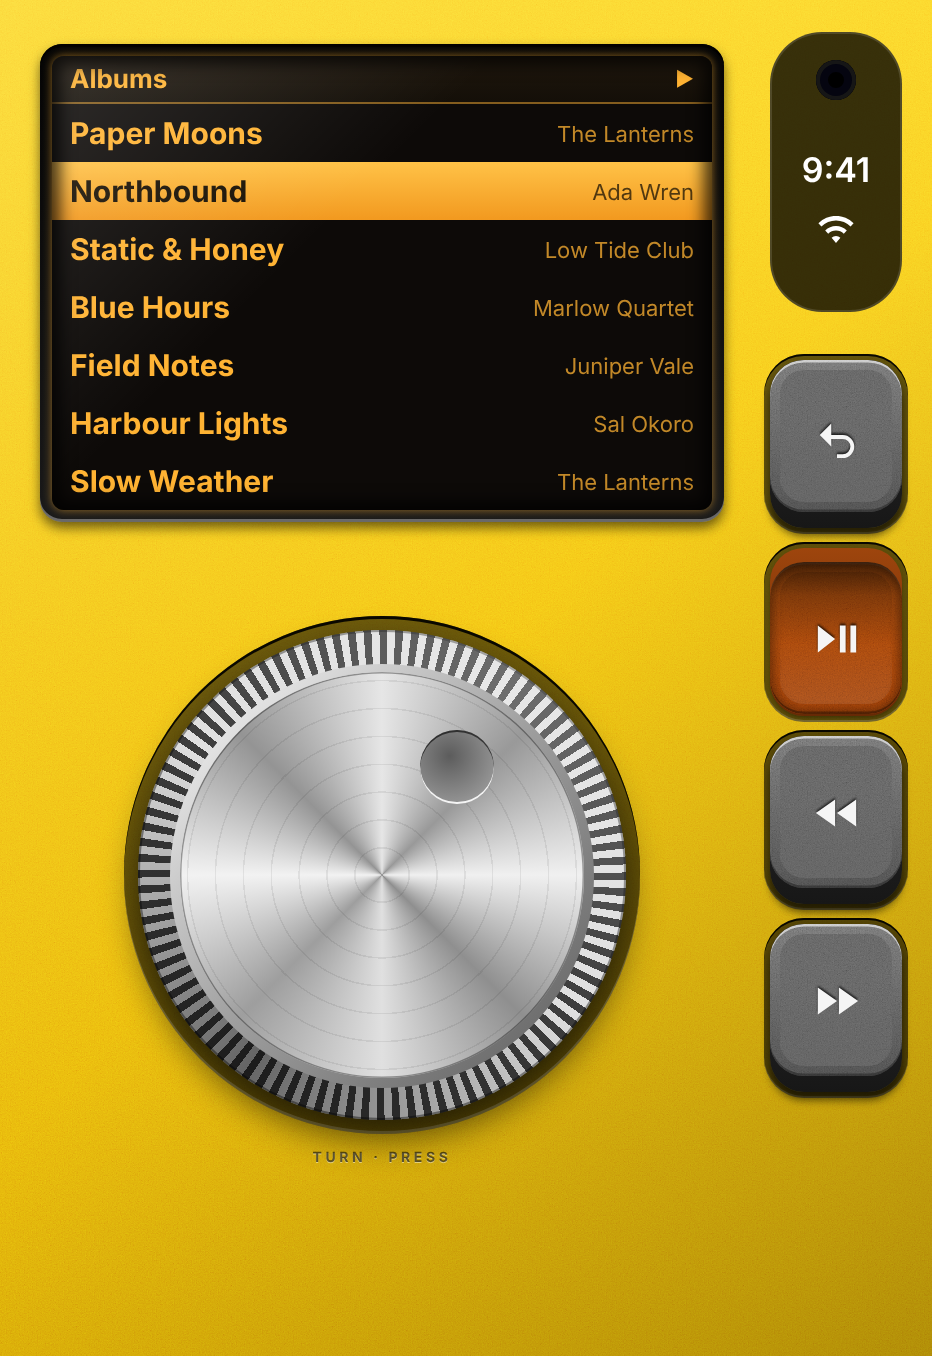
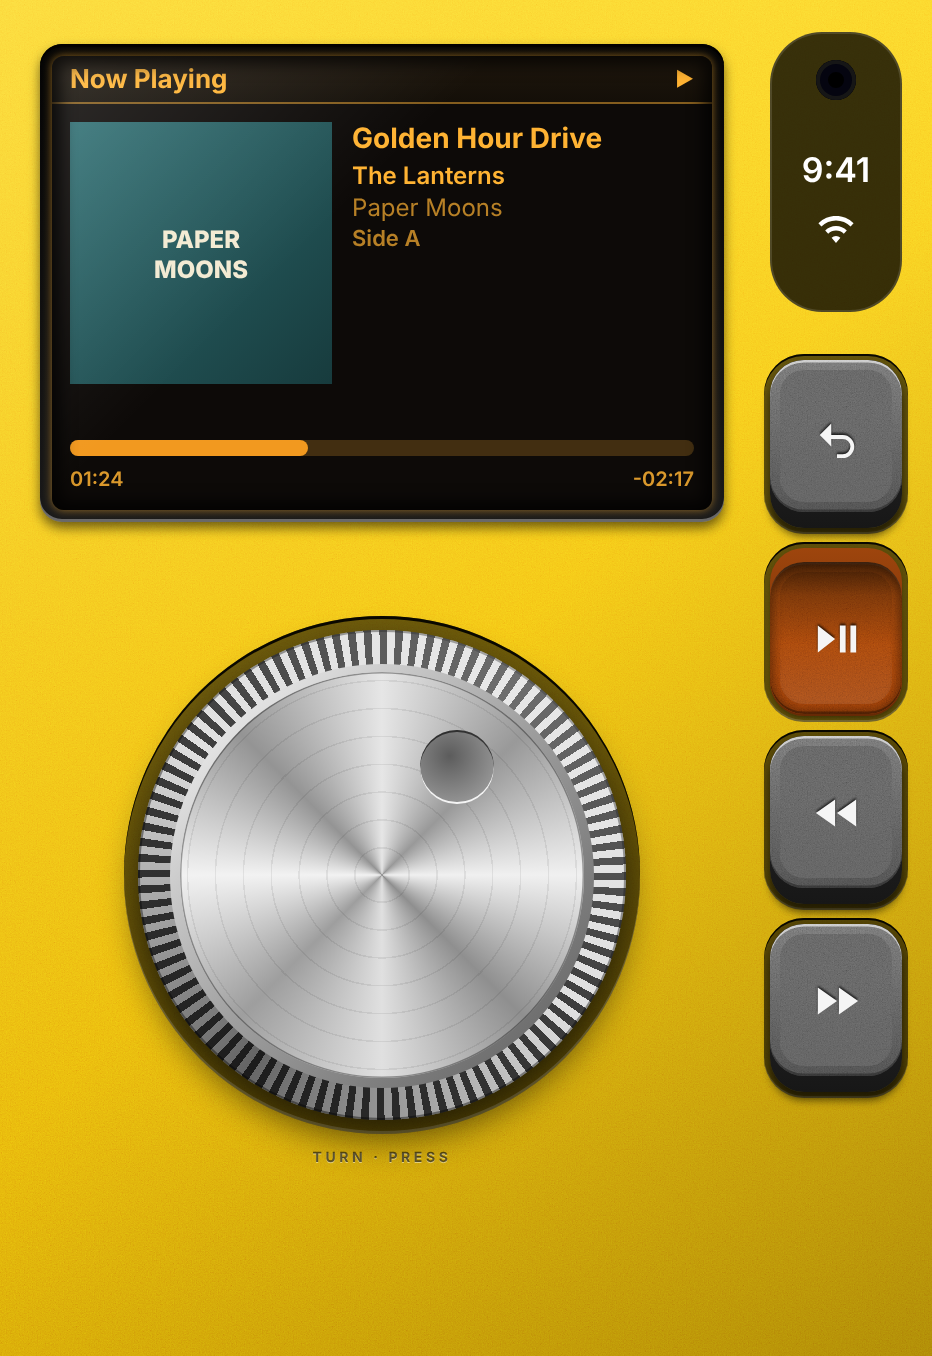
Name the three colours for both players and frame the website pictures
Themes are now Retro 80s, Black and Yellow for the tape player and the
MP3 player. The website shows all six inside a drawn folding phone.

Claude-Session: https://claude.ai/code/session_015CNmSEpanpmujmbPK8yXHv

Changed region(s): [[0.0311, 0.031, 0.7779, 0.3717], [0.5601, 0.2168, 0.7468, 0.2788]]

diff --git a/website/index.html b/website/index.html
@@ -38,7 +38,7 @@
       <span class="price"><b>$4.99</b> one time. For iPhone. Needs an Apple Music subscription.</span>
     </div>
     <figure class="shot">
-      <img src="images/tape-neon.png" alt="Cassety on a closed folding iPhone in its neon skin: a cassette behind a glowing window, with a volume fader and a column of keys." width="466" height="678">
+      <img src="images/duo-tape-80s.webp" alt="Cassety on a closed iPhone Duo in its retro 80s colours: a cassette behind a glowing window, with a volume fader and a column of keys." width="846" height="1134">
     </figure>
   </main>
 </div>
@@ -62,10 +62,10 @@
 <section class="alt">
   <div class="wrap pair">
     <figure class="shot wide">
-      <img src="images/open.png" alt="Cassety on an open folding iPhone: a shelf of tapes on the left and the chosen cassette on the right." width="951" height="669" loading="lazy">
+      <img src="images/duo-open.webp" alt="Cassety on an open iPhone Duo: a shelf of tapes on the left and the chosen cassette on the right." width="1571" height="1130" loading="lazy">
     </figure>
     <div>
-      <h2>Made for folding iPhones</h2>
+      <h2>Made for iPhone Duo</h2>
       <ul>
         <li>Closed, the whole screen is the player.</li>
         <li>Open, your tape shelf is on one side and the tape on the other.</li>
@@ -81,11 +81,18 @@
 <section>
   <div class="wrap">
     <h2>Pick your player. Pick your colour.</h2>
-    <p class="intro">A tape player or an MP3 player, in smoke, yellow or neon. They all play the same tapes.</p>
+    <p class="intro">A tape player or an MP3 player, each in retro 80s, black or yellow. They all play the same tapes.</p>
+    <h3 class="row-title">Tape player</h3>
     <div class="shots">
-      <figure class="shot"><img src="images/tape-smoke.png" alt="The tape player in smoked dark plastic." width="466" height="678" loading="lazy"><figcaption>Tape player, smoke</figcaption></figure>
-      <figure class="shot"><img src="images/tape-yellow.png" alt="The tape player in yellow." width="466" height="678" loading="lazy"><figcaption>Tape player, yellow</figcaption></figure>
-      <figure class="shot"><img src="images/mp3-smoke.png" alt="The MP3 player: an amber display above a metal dial." width="466" height="678" loading="lazy"><figcaption>MP3 player, smoke</figcaption></figure>
+      <figure class="shot"><img src="images/duo-tape-80s.webp" alt="The tape player in retro 80s purple and pink." width="846" height="1134" loading="lazy"><figcaption>Retro 80s</figcaption></figure>
+      <figure class="shot"><img src="images/duo-tape-black.webp" alt="The tape player in black smoked plastic." width="846" height="1134" loading="lazy"><figcaption>Black</figcaption></figure>
+      <figure class="shot"><img src="images/duo-tape-yellow.webp" alt="The tape player in yellow." width="846" height="1134" loading="lazy"><figcaption>Yellow</figcaption></figure>
+    </div>
+    <h3 class="row-title">MP3 player</h3>
+    <div class="shots">
+      <figure class="shot"><img src="images/duo-mp3-80s.webp" alt="The MP3 player in retro 80s purple, with a cyan display above a metal dial." width="846" height="1134" loading="lazy"><figcaption>Retro 80s</figcaption></figure>
+      <figure class="shot"><img src="images/duo-mp3-black.webp" alt="The MP3 player in black, with an amber display above a metal dial." width="846" height="1134" loading="lazy"><figcaption>Black</figcaption></figure>
+      <figure class="shot"><img src="images/duo-mp3-yellow.webp" alt="The MP3 player in yellow." width="846" height="1134" loading="lazy"><figcaption>Yellow</figcaption></figure>
     </div>
   </div>
 </section>
@@ -96,7 +103,7 @@
     <details><summary>What do I need?</summary><p>An iPhone and an Apple Music subscription. Cassety plays music from your Apple Music library and from the Apple Music catalogue.</p></details>
     <details><summary>Is there a subscription to Cassety?</summary><p>No. Cassety is a one time purchase of $4.99. There are no adverts and no purchases inside the app. Apple Music is a separate subscription from Apple.</p></details>
     <details><summary>Does Cassety collect my data?</summary><p>No. There are no accounts, no tracking and no analytics. See the <a href="privacy.html">privacy policy</a>.</p></details>
-    <details><summary>Do I need a folding iPhone?</summary><p>No. Cassety is designed around the closed and open screens of a folding iPhone, and it works on every other iPhone as well.</p></details>
+    <details><summary>Do I need an iPhone Duo?</summary><p>No. Cassety is designed around the closed and open screens of iPhone Duo, and it works on every other iPhone as well.</p></details>
   </div>
 </section>
 <div class="stripes" aria-hidden="true"></div>

diff --git a/tools/device-frame.html b/tools/device-frame.html
@@ -1,0 +1,21 @@
+<!doctype html>
+<!-- Puts a picture of the app inside a drawing of a folding phone, for the
+     website. ?img=<file url>&w=&h= are the screen size in points;
+     ?open=1 draws the phone unfolded. Rendered by Playwright with a
+     transparent background. This is a drawing, not Apple's artwork. -->
+<body style="margin:0;background:transparent"><script>
+const q=new URLSearchParams(location.search),w=+q.get('w'),h=+q.get('h'),open=q.get('open'),img=q.get('img');
+const b=open?16:13,pad=26,r=open?44:52;
+const ti='linear-gradient(135deg,#4a4d57,#1f2128 30%,#2c2e36 60%,#15161b)';
+let html=`<div id="f" style="position:relative;display:inline-block;padding:${pad}px ${pad+6}px ${pad}px ${pad+(open?6:14)}px">
+<div style="position:relative;padding:${b}px;border-radius:${r+b}px;background:${ti};box-shadow:0 18px 30px rgba(10,4,30,.45),inset 0 0 0 2px rgba(255,255,255,.14),inset 0 0 0 4px #0b0b0e">
+${open?'':`<div style="position:absolute;left:-12px;top:${r}px;bottom:${r}px;width:16px;border-radius:9px 0 0 9px;background:linear-gradient(90deg,#3a3c44,#6b6e78 45%,#2b2d34);box-shadow:inset 0 0 0 1px rgba(0,0,0,.5)"></div>`}
+<div style="position:absolute;right:-5px;top:${h*.26}px;width:5px;height:${open?70:84}px;border-radius:0 3px 3px 0;background:#3c3e46"></div>
+<div style="position:absolute;right:-5px;top:${h*.26+(open?86:102)}px;width:5px;height:44px;border-radius:0 3px 3px 0;background:#3c3e46"></div>
+<div style="position:relative;width:${w}px;height:${h}px;border-radius:${r}px;overflow:hidden;background:#000">
+<img src="${img}" style="display:block;width:${w}px;height:${h}px">
+${open?`<div style="position:absolute;left:50%;top:0;bottom:0;width:26px;margin-left:-13px;background:linear-gradient(90deg,transparent,rgba(0,0,0,.16) 40%,rgba(255,255,255,.07) 55%,transparent)"></div>`:''}
+<div style="position:absolute;inset:0;border-radius:${r}px;box-shadow:inset 0 0 0 1.5px rgba(0,0,0,.6)"></div>
+</div></div></div>`;
+document.body.innerHTML=html;
+</script></body>

diff --git a/TapeDeck/Theme.swift b/TapeDeck/Theme.swift
@@ -15,12 +15,12 @@ struct Theme: Identifiable, Equatable {
     /// only in builds run from Xcode (see `Skin.includesClickWheel`).
     static var offered: [Theme] {
         var list = [
-            Theme(id: "tape-smoke", name: "Tape player", detail: "Smoke", player: "tape", skin: .smoke),
+            Theme(id: "tape-neon", name: "Tape player", detail: "Retro 80s", player: "tape", skin: .neon),
+            Theme(id: "tape-smoke", name: "Tape player", detail: "Black", player: "tape", skin: .smoke),
             Theme(id: "tape-yellow", name: "Tape player", detail: "Yellow", player: "tape", skin: .yellow),
-            Theme(id: "tape-neon", name: "Tape player", detail: "Neon", player: "tape", skin: .neon),
-            Theme(id: "mp3-smoke", name: "MP3 player", detail: "Smoke", player: "mp3", skin: .smoke),
-            Theme(id: "mp3-yellow", name: "MP3 player", detail: "Yellow", player: "mp3", skin: .yellow),
-            Theme(id: "mp3-neon", name: "MP3 player", detail: "Neon", player: "mp3", skin: .neon)
+            Theme(id: "mp3-neon", name: "MP3 player", detail: "Retro 80s", player: "mp3", skin: .neon),
+            Theme(id: "mp3-smoke", name: "MP3 player", detail: "Black", player: "mp3", skin: .smoke),
+            Theme(id: "mp3-yellow", name: "MP3 player", detail: "Yellow", player: "mp3", skin: .yellow)
         ]
         if Skin.includesClickWheel {
             list.append(Theme(id: "wheel-black", name: "Click wheel", detail: "Black",

diff --git a/website/styles.css b/website/styles.css
@@ -60,8 +60,8 @@ a.button:hover { background: #fff; color: var(--night); }
 
 /* Pictures of the app */
 .shot { margin: 0; text-align: center; }
-.shot img { display: block; width: 100%; max-width: 290px; height: auto; margin: 0 auto; border-radius: 28px; border: 8px solid var(--night); }
-.shot.wide img { max-width: 100%; border-radius: 20px; }
+.shot img { display: block; width: 100%; max-width: 330px; height: auto; margin: 0 auto; }
+.shot.wide img { max-width: 100%; }
 .shot figcaption { margin-top: 14px; font: 15px/1.2 "Righteous", sans-serif; color: var(--text); letter-spacing: 0.5px; }
 
 /* Sections step through the bands */
@@ -89,7 +89,7 @@ p.intro { color: var(--muted); max-width: 40em; margin: 0 0 30px; }
 .pair h2:not(:first-child) { margin-top: 34px; }
 
 .shots { display: grid; grid-template-columns: repeat(3, 1fr); gap: 34px 26px; justify-items: center; }
-.shots .shot img { border-color: var(--indigo); }
+.row-title { margin: 30px 0 10px; font: 400 22px/1.2 "Righteous", sans-serif; color: var(--orange); }
 
 /* Text pages: plain and easy to read, on one flat sheet */
 .page { padding: 34px 0 70px; }

diff --git a/TapeDeck/Skin.swift b/TapeDeck/Skin.swift
@@ -45,9 +45,9 @@ enum Skin: String, CaseIterable, Identifiable {
 
     var name: String {
         switch self {
-        case .smoke: return "Smoke cassette player"
+        case .smoke: return "Black cassette player"
         case .yellow: return "Yellow cassette player"
-        case .neon: return "Neon cassette player"
+        case .neon: return "Retro 80s cassette player"
         case .wheelBlack: return "Black click wheel"
         case .wheelSilver: return "Silver click wheel"
         }

diff --git a/README.md b/README.md
@@ -28,12 +28,12 @@ A theme is what the closed phone looks like: which player it is and what colour 
 
 | Theme | What it is |
 | --- | --- |
-| Tape player, Smoke | The cassette and its reels behind a window in dark smoked plastic, with the volume fader and keys beside it. |
+| Tape player, Black | The cassette and its reels behind a window in dark smoked plastic, with the volume fader and keys beside it. |
 | Tape player, Yellow | The same in bright yellow with dark engraved lettering. |
-| Tape player, Neon | Eighties neon: deep purple, a glowing pink and cyan window, a hot pink play key and a band of stripes. |
-| MP3 player, Smoke | A display of menus and a metal jog dial, in dark plastic. |
+| Tape player, Retro 80s | Eighties neon: deep purple, a glowing pink and cyan window, a hot pink play key and a band of stripes. |
+| MP3 player, Black | A display of menus and a metal jog dial, in dark plastic. |
 | MP3 player, Yellow | The same in yellow. |
-| MP3 player, Neon | The same in purple, with cyan lettering on the display and a pink highlight. |
+| MP3 player, Retro 80s | The same in purple, with cyan lettering on the display and a pink highlight. |
 | Click wheel, Black | A screen above a click wheel. Xcode builds only. |
 | Click wheel, Silver | The same in silver with a white wheel. Xcode builds only. |
 

diff --git a/store/listing.md b/store/listing.md
@@ -49,7 +49,7 @@ TWO PLAYERS IN ONE
 
 MORE
 • The tape on your Lock Screen, with keys.
-• Three cases: smoked dark plastic, bright yellow, or eighties neon.
+• Three colours for each player: retro 80s, black or yellow.
 • Your mixtapes and settings sync with iCloud, and can be saved to a backup file.
 
 Cassety plays music from Apple Music. An Apple Music subscription is required.
